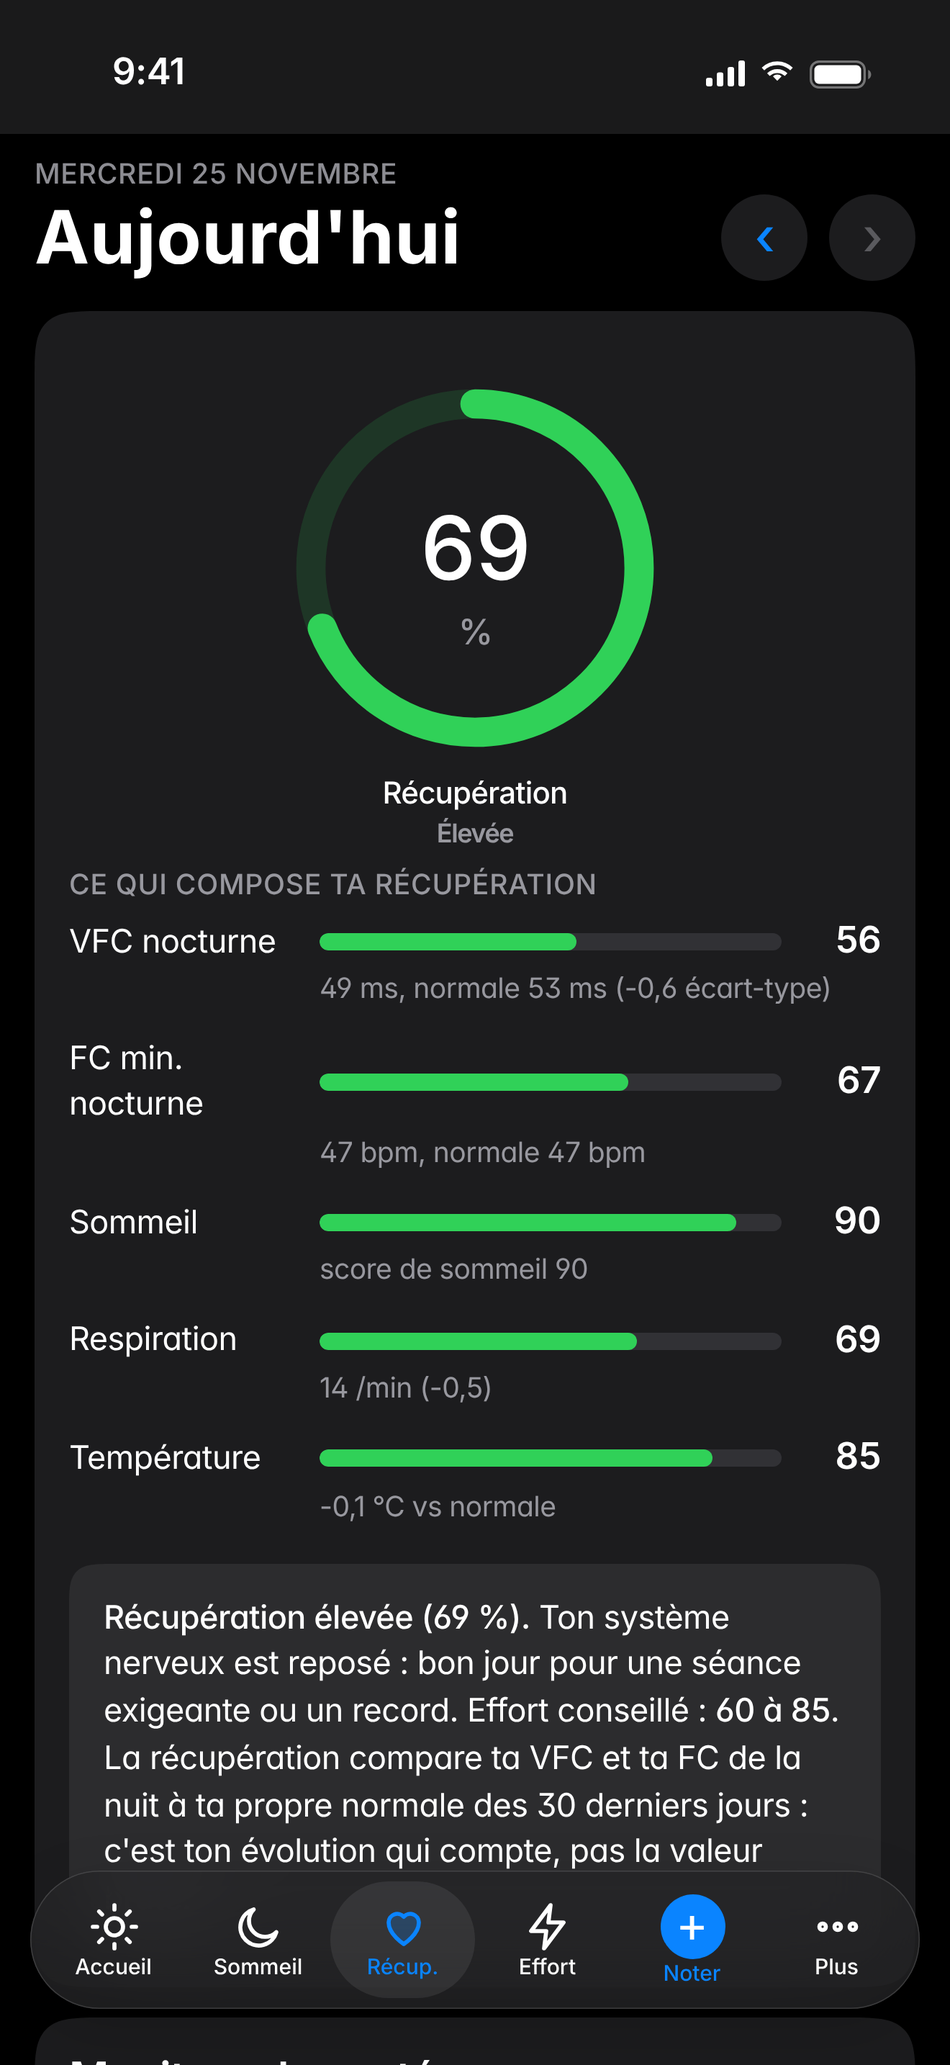
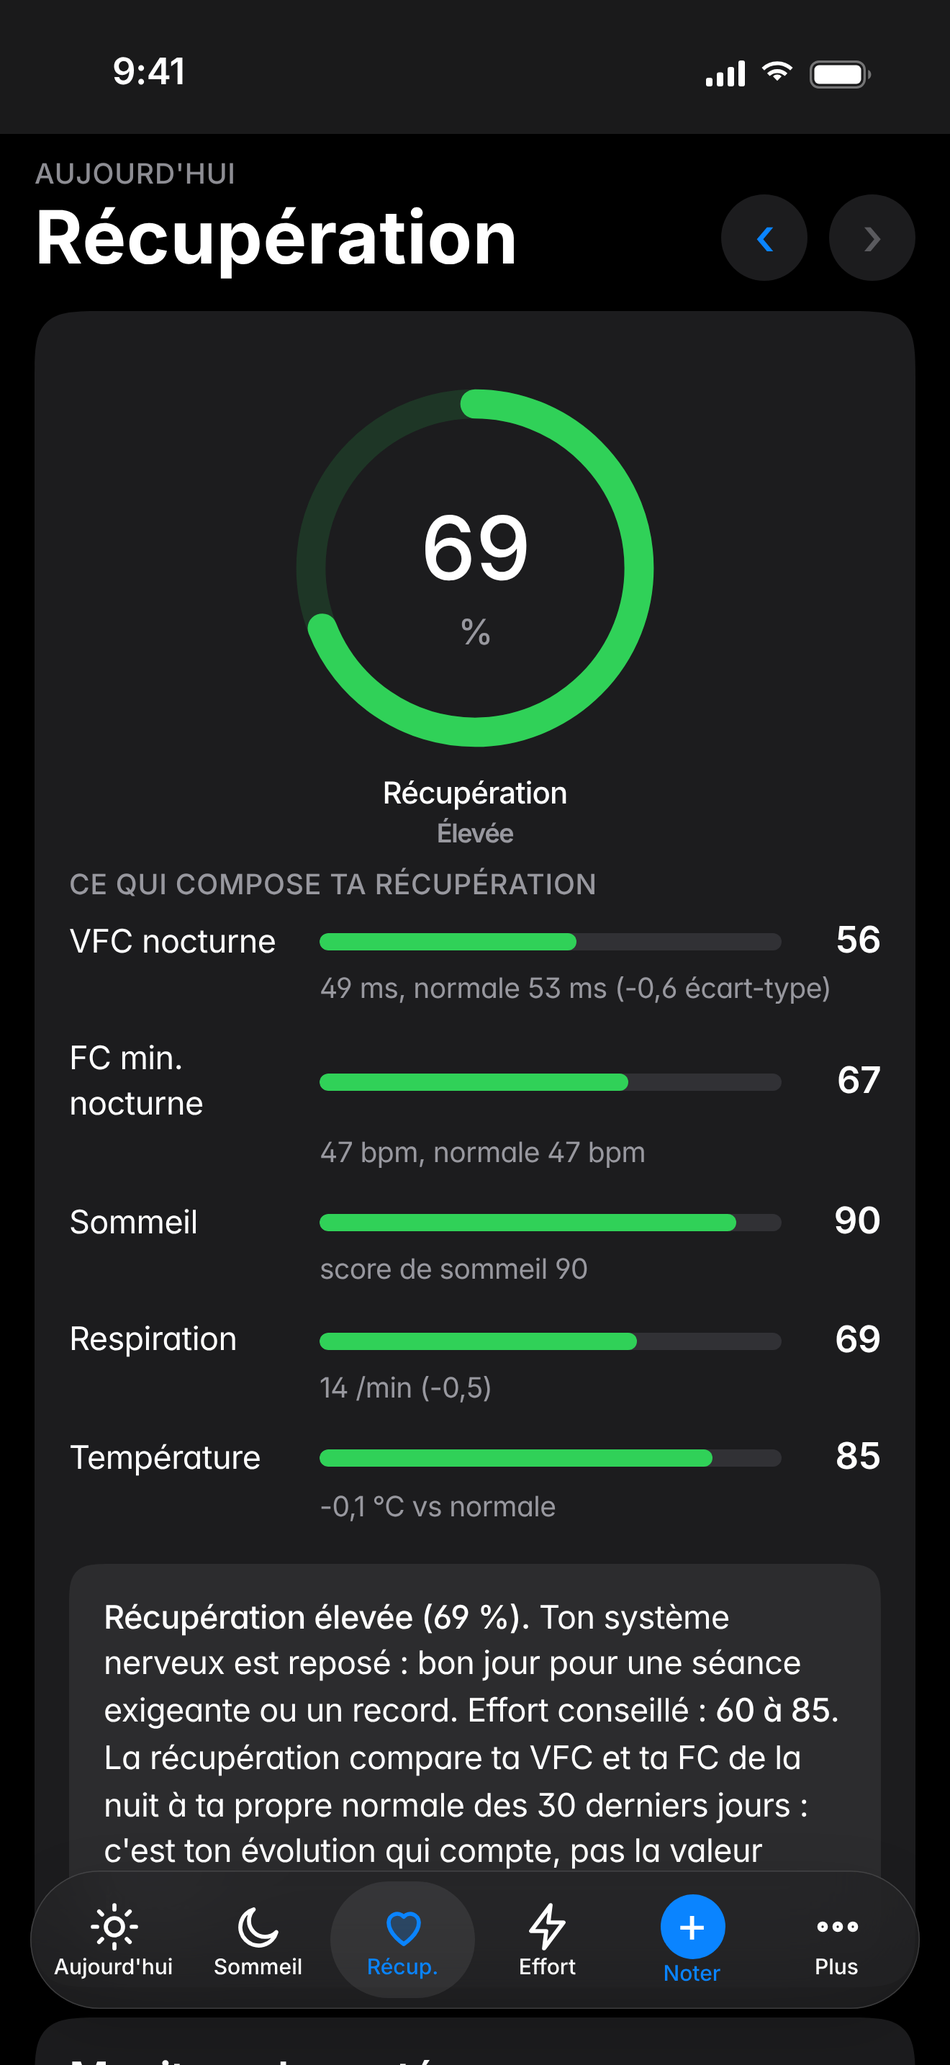
Finitions façon Apple : titres, textes, formulaires et réglages
- grand titre = nom de l'écran (Sommeil, Récupération, Effort), date en sous-titre
- onglet « Aujourd'hui » (au lieu d'« Accueil »), « Apple Santé » dans Noter
- rendez-vous à venir en ligne de liste avec date relative (« dans 12 jours »), au lieu d'un bandeau rose
- chiffres : petit libellé gris au-dessus, comme dans Santé et Forme
- explications coupées à deux lignes avec « plus » (comme l'App Store)
- réglages, dossier et profil en lignes iOS (libellé à gauche, valeur à droite), interrupteurs iOS
- liens sans soulignement, gras du texte en semi-gras
- textes plus justes : stress « calculé au fil de la journée », « Commencer une séance »
- records lisibles sur téléphone ; captures App Store régénérées

Claude-Session: https://claude.ai/code/session_015H5AcnZF4Qe2vCaE56TQbC

Changed region(s): [[0.0311, 0.0621, 0.5591, 0.1552], [0.0621, 0.931, 0.1864, 0.962]]

diff --git a/src/main.js b/src/main.js
@@ -212,11 +212,14 @@ const zbar=z=>{const t=(z||[]).reduce((a,b)=>a+b,0);return t?`<div class="zb">${
 const zleg=z=>`<div class="zl">${(z||[]).map((m,i)=>m?`<span><i style="--c:${ZC[i]}"></i>Z${i+1} ${m} min</span>`:'').join('')}</div>`;
 
 /* ---------- vue commune : jour ---------- */
-function renderDayNav(){const d=S.day;$('#dtitle').textContent=d===today()?"Aujourd'hui":dLong(d);$('#dsub').textContent=d===today()?dLong(d):(d===addD(today(),-1)?'Hier':'');$('[data-act=dnext]').disabled=d>=today();
+const VT={sommeil:'Sommeil',recuperation:'Récupération',effort:'Effort'};
+function renderDayNav(){const d=S.day,v0=cur(),rel=d===today()?"Aujourd'hui":d===addD(today(),-1)?'Hier':'';
+ if(VT[v0]){$('#dtitle').textContent=VT[v0];$('#dsub').textContent=rel||dLong(d)}
+ else{$('#dtitle').textContent=d===today()?"Aujourd'hui":dLong(d);$('#dsub').textContent=d===today()?dLong(d):rel}$('[data-act=dnext]').disabled=d>=today();
  const L=hLast(),up=S.med.filter(m=>(m.date>=today()&&m.date<=addD(today(),14))||(m.next&&m.next>=today()&&m.next<=addD(today(),14)));const v=cur();
  $('#dn').hidden=!['aujourdhui','sommeil','recuperation','effort'].includes(v);
  $('#dnote').innerHTML=!['aujourdhui','sommeil','recuperation','effort'].includes(v)?'':(!L?`<div class="notice">${IMP('Importe ton export Apple Santé','Connecte Apple Santé')} (onglet <a href="#plus" data-act="psub" data-s="apple">Plus</a>) pour activer les scores, le sommeil détaillé et l'analyse cardiaque.</div>`:d>L?`<div class="notice">Données Apple jusqu'au ${dShort(L)}. ${IMP('Réimporte ton export','Synchronise Apple Santé')} pour mettre à jour, ou <button class="btn small" data-act="dlast">voir le ${dShort(L)}</button></div>`:'')
-  +(v==='aujourdhui'&&d===today()&&up.length?`<div class="notice med"><b>Dossier :</b> ${up.map(m=>`${esc(m.title)} le ${dShort(m.date>=today()?m.date:m.next)}`).join(' · ')}</div>`:'')}
+  +(v==='aujourdhui'&&d===today()&&up.length?`<button type="button" class="upnext" data-act="psub" data-s="dossier"><i><svg viewBox="0 0 24 24"><rect x="4" y="5" width="16" height="15" rx="3"/><path d="M8 3v4M16 3v4M4 10h16"/></svg></i><span>${up.map(m=>{const x=m.date>=today()?m.date:m.next,n=Math.round((new Date(x+'T12:00')-new Date(today()+'T12:00'))/864e5);return `<b>${esc(m.title)}</b> ${n===0?"aujourd'hui":n===1?'demain':'dans '+n+' jours'}`}).join('<br>')}</span><em>›</em></button>`:'')}
 
 /* ---------- aujourd'hui ---------- */
 function renderToday(){const d=S.day,h=H(d),D=S.days[d]||{},it=D.items||[],T=dayTrain(d),set=S.set;
@@ -226,7 +229,7 @@ function renderToday(){const d=S.day,h=H(d),D=S.days[d]||{},it=D.items||[],T=day
  const st=num(h.stz),wat=num(D.w)||num(h.wa),vb=nhrvBase(d);
  const tile=(c,k,v,s,extra='')=>`<div class="tile" style="--c:${c}"><span class="k"><i></i>${k}</span><span class="v">${v}</span><span class="s">${s}</span>${extra}</div>`;
  $('#tiles').innerHTML=[
-  tile('var(--str)','Stress estimé',has(h.stz)?`${st}<small> / 100</small>`:'–',has(h.stz)?stressLab(st):''+IMP('après import Apple','après synchro Apple Santé')+''),
+  tile('var(--str)','Stress estimé',has(h.stz)?`${st}<small> / 100</small>`:'–',has(h.stz)?stressLab(st):hKeys().length?(d===today()?'calculé au fil de la journée':'pas de mesure ce jour'):IMP('après import Apple','après synchro Apple Santé')),
   tile('var(--mind)','VFC nocturne',nhrv(d)?`${r0(nhrv(d))}<small> ms</small>`:'–',nhrv(d)&&vb?`normale ${r0(vb.m)} ms`:'pendant ton sommeil'),
   tile('var(--hrt)','FC au repos',h.rhr?`${h.rhr}<small> bpm</small>`:'–',h.nmin?`min. nocturne ${h.nmin} bpm`:''),
   tile('var(--eff)','Activité',h.st?`${r0(h.st)}<small> pas</small>`:'–',[h.ac?r0(h.ac)+' kcal actives':'',h.ex?h.ex+' min d\'exercice':''].filter(Boolean).join(' · ')),
@@ -319,7 +322,7 @@ function renderRec(){const d=S.day,h=H(d),rc=recovery(d);
  const v7=avg(raw.slice(-7).map(p=>p.y));$('#vk2').innerHTML=(hvm()==='rmssd'&&!S.health.rm&&hKeys().length?'<p class="notice" style="width:100%">Ta VFC est encore en SDNN (valeur d\'Apple). '+IMP('Réimporte ton export pour la calculer en RMSSD battement par battement, comme Bevel.','Le RMSSD battement par battement n\'est disponible qu\'avec un fichier d\'export Apple Santé (Plus → Apple Santé).')+'</p>':'')+(v7?`<div><b>${r0(v7)} ms</b><span>${hvLab()}, moyenne des 7 dernières nuits</span></div>`+(vb?`<div><b>${r0(vb.m)} ms</b><span>ta normale (30 j)</span></div><div><b class="${v7>=vb.m?'gd':'dn'}">${sg(Math.round((v7/vb.m-1)*100))} %</b><span>écart à ta normale</span></div>`:''):'');
  const f90=addD(L,-89);setFig('#fnh',{unit:'bpm',series:[{name:'FC min. nocturne',avg:true,pts:dailyPts(d=>num(H(d).nmin)||null,f90,L),col:'var(--trn)',w:1.8,last:true},{name:'FC au repos',avg:true,pts:dailyPts(d=>num(H(d).rhr)||null,f90,L),col:'var(--hrt)',w:1.8,last:true}],empty:'Pas encore de FC nocturne'});
  const nm=winAvg('nmin',L,7),nb=base('nmin',addD(L,-7));$('#nhk').innerHTML=nm?`<div><b>${r0(nm)} bpm</b><span>FC min. nocturne, 7 j${nb?` · <span class="${nm<=nb?'gd':'dn'}">${sg(Math.round(nm-nb))}</span>`:''}</span></div>`:'';
- const x=X(d),sv=num(h.stz);$('#stk').innerHTML=has(h.stz)?`<div><b style="color:var(--str)">${sv}</b><span>stress du ${dShort(d)} : ${stressLab(sv).toLowerCase()}</span></div><div><b>${r0(winAvg('stz',d,7)||0)}</b><span>moyenne 7 j</span></div>`:'<p class="mute small">'+IMP('Le stress estimé apparaît après un import Apple Santé.','Le stress estimé apparaît après la synchro Apple Santé.')+'</p>';
+ const x=X(d),sv=num(h.stz);$('#stk').innerHTML=has(h.stz)?`<div><b style="color:var(--str)">${sv}</b><span>stress du ${dShort(d)} : ${stressLab(sv).toLowerCase()}</span></div><div><b>${r0(winAvg('stz',d,7)||0)}</b><span>moyenne 7 j</span></div>`:'<p class="mute small">'+(hKeys().length?'Pas encore de stress estimé pour ce jour : il se calcule au fil de la journée, à partir de ta fréquence cardiaque.':IMP('Le stress estimé apparaît après un import Apple Santé.','Le stress estimé apparaît après la synchro Apple Santé.'))+'</p>';
  $('#sth').innerHTML=x&&x.sh?`<div style="display:grid;grid-template-columns:repeat(24,minmax(0,1fr));gap:2px;align-items:end;height:80px">${x.sh.map((v,i)=>`<i data-tip="${esc(`${i}h – ${i+1}h : stress ${v} / 100`)}" style="display:block;height:${Math.max(4,v)}%;border-radius:3px;background:${v>=50?'var(--str)':v>0?'color-mix(in srgb,var(--str) 45%,var(--field))':'var(--field)'}"></i>`).join('')}</div><div style="display:flex;justify-content:space-between" class="mute small"><span>0h</span><span>6h</span><span>12h</span><span>18h</span><span>24h</span></div>`:'';
  const vk=(key,lab,f,dev)=>{const v=vals(key,L,7,0);if(!v.length)return'';const a=avg(v),b=base(key,addD(L,-7),30);return `<div><b>${dev&&b!=null?sg(Math.round((a-b)*100)/100)+' °C':f(a)}</b><span>${lab}${dev?' vs normale':''}, 7 j</span></div>`};
  $('#vtk').innerHTML=[vk('o2','SpO2',v=>fx(v)+' %'),vk('rr','respirations / min',fx),vk('tp','température poignet',fx,true),vk('hr','FC moyenne',v=>r0(v)+' bpm'),vk('whr','FC en marchant',v=>r0(v)+' bpm'),vk('hrr','récupération à 1 min',v=>r0(v)+' bpm')].join('')||'<p class="mute small">'+IMP('Réimporte ton export Apple Santé','Synchronise Apple Santé')+' pour ajouter ces mesures.</p>';
@@ -348,8 +351,8 @@ function renderStart(){const seen=new Set(),tpl=[];
  const seg=`<div class="seg"><button data-act="smode" data-m="mu" class="${startMode==='mu'?'on':''}">Muscu</button><button data-act="smode" data-m="sp" class="${startMode==='sp'?'on':''}">Autre sport</button></div>`;
  $('#editor').innerHTML=`<div class="panel"><h2>Noter une séance</h2>${seg}`+(startMode==='mu'?`
  <div class="grid2"><label>Nom de la séance<input id="nn" placeholder="Push, Pull, Jambes…" autocomplete="off"></label><label>Date<input id="nd" type="date" value="${today()}"></label></div>
- <button class="btn pri" data-act="start">Démarrer une séance vide</button>
- ${tpl.length?`<h3>Ou refaire une séance type</h3><div class="chips">${tpl.map(s=>`<button class="chip" data-act="tpl" data-id="${esc(s.id)}"><b>${esc(s.name)}</b><span>${dShort(s.date)} · ${(s.ex||[]).length} exos</span></button>`).join('')}</div><p class="mute small">Charges pré-remplies avec la progression suggérée.</p>`:''}`
+ <button class="btn pri" data-act="start">Commencer une séance</button>
+ ${tpl.length?`<h3>Ou reprendre une séance récente</h3><div class="chips">${tpl.map(s=>`<button class="chip" data-act="tpl" data-id="${esc(s.id)}"><b>${esc(s.name)}</b><span>${dShort(s.date)} · ${(s.ex||[]).length} exos</span></button>`).join('')}</div><p class="mute small">Charges pré-remplies avec la progression suggérée.</p>`:''}`
  :`<form id="spf"><div class="grid3"><label>Sport<select id="spt">${SPORTS.map(x=>`<option>${x}</option>`).join('')}</select></label><label>Date<input id="spd" type="date" value="${today()}"></label><label>Durée (min)<input id="spm" inputmode="numeric" required></label>
  <label>Intensité ressentie (1 à 10)<select id="spr"><option value="">Non notée</option>${[1,2,3,4,5,6,7,8,9,10].map(i=>`<option value="${i}">${i}${i<=3?' · facile':i<=6?' · modéré':i<=8?' · dur':' · maximal'}</option>`).join('')}</select></label><label>Distance (km, option)<input id="spk" inputmode="decimal"></label><label>Note<input id="spn" placeholder="ex. fractionné 8×400 m"></label></div>
  <button class="btn pri">Enregistrer</button></form>`)+`</div>`;
@@ -573,7 +576,8 @@ function updateDatalist(){const m=new Map();for(const x of exNames())m.set(norm(
 function resumeOnce(){if(resumed)return;resumed=true;const o=S.sessions.filter(s=>s.open).sort(sortDesc)[0];if(o&&!S.cur){S.cur=clone(o);renderEditor()}}
 const views=['aujourdhui','sommeil','recuperation','effort','nutrition','tendances','plus'];
 const cur=()=>{const h=location.hash.slice(1);return views.includes(h)?h:'aujourdhui'};
-function renderView(v){renderDayNav();$('#demobar').hidden=!S.set.demo;try{({aujourdhui:renderToday,sommeil:renderSleep,recuperation:renderRec,effort:renderEffort,nutrition:renderNutri,tendances:renderTrends,plus:renderPlus})[v]()}catch(e){console.error(e)}}
+function markMore(){if(!matchMedia('(max-width:800px)').matches)return;requestAnimationFrame(()=>$$('.view:not([hidden]) .panel>p.mute.small:not(.open)').forEach(p=>p.classList.toggle('more',p.scrollHeight>p.clientHeight+2)))}
+function renderView(v){setTimeout(markMore,0);renderDayNav();$('#demobar').hidden=!S.set.demo;try{({aujourdhui:renderToday,sommeil:renderSleep,recuperation:renderRec,effort:renderEffort,nutrition:renderNutri,tendances:renderTrends,plus:renderPlus})[v]()}catch(e){console.error(e)}}
 function renderSoft(){updateDatalist();
  if(!S.cur&&!$('#editor').contains(document.activeElement))renderStart();
  if(S.cur)S.cur.ex.forEach((e,i)=>updateHint(i));

diff --git a/index.html b/index.html
@@ -19,7 +19,7 @@
 <header class="top">
  <div class="wrap tt"><div class="brand"><svg viewBox="0 0 32 32" aria-hidden="true"><rect width="32" height="32" rx="10" fill="var(--ink)"/><circle cx="16" cy="16" r="9" fill="none" stroke="var(--eff)" stroke-width="3" stroke-dasharray="19 38" stroke-linecap="round" transform="rotate(-90 16 16)"/><circle cx="16" cy="16" r="9" fill="none" stroke="var(--rec)" stroke-width="3" stroke-dasharray="17 40" stroke-dashoffset="-19" stroke-linecap="round" transform="rotate(-90 16 16)"/><circle cx="16" cy="16" r="9" fill="none" stroke="var(--slp)" stroke-width="3" stroke-dasharray="17 40" stroke-dashoffset="-38" stroke-linecap="round" transform="rotate(-90 16 16)"/></svg><h1>Carnet de santé</h1></div><span id="st" class="pill local">Sauvegarde locale</span></div>
  <nav class="wrap tabs" id="tabs">
-  <a href="#aujourdhui"><svg viewBox="0 0 24 24"><circle cx="12" cy="12" r="4"/><path d="M12 2v2M12 20v2M4.9 4.9l1.4 1.4M17.7 17.7l1.4 1.4M2 12h2M20 12h2M4.9 19.1l1.4-1.4M17.7 6.3l1.4-1.4"/></svg><span class="lb"><span class="lf">Aujourd'hui</span><span class="ls">Accueil</span></span></a>
+  <a href="#aujourdhui"><svg viewBox="0 0 24 24"><circle cx="12" cy="12" r="4"/><path d="M12 2v2M12 20v2M4.9 4.9l1.4 1.4M17.7 17.7l1.4 1.4M2 12h2M20 12h2M4.9 19.1l1.4-1.4M17.7 6.3l1.4-1.4"/></svg><span class="lb"><span class="lf">Aujourd'hui</span><span class="ls">Aujourd'hui</span></span></a>
   <a href="#sommeil"><svg viewBox="0 0 24 24"><path d="M20 14.5A8.5 8.5 0 1 1 9.5 4a7 7 0 0 0 10.5 10.5z"/></svg><span class="lb">Sommeil</span></a>
   <a href="#recuperation"><svg viewBox="0 0 24 24"><path d="M12 20s-7-4.4-7-10a4 4 0 0 1 7-2.6A4 4 0 0 1 19 10c0 5.6-7 10-7 10z"/></svg><span class="lb">Récup.</span></a>
   <button type="button" class="tplus" data-act="sheet" aria-label="Noter quelque chose"><span class="pi" aria-hidden="true">+</span><span class="lb">Noter</span></button>
@@ -29,7 +29,7 @@
   <a href="#plus"><svg viewBox="0 0 24 24"><circle cx="5" cy="12" r="1.5"/><circle cx="12" cy="12" r="1.5"/><circle cx="19" cy="12" r="1.5"/></svg><span class="lb">Plus</span></a>
  </nav>
 <div id="sheet" hidden><div class="sh" role="dialog" aria-label="Noter"><h3>Noter</h3><button type="button" class="x shx" data-act="qa" data-q="close" aria-label="Fermer">×</button>
-<button class="qa" data-act="qa" data-q="mu" style="--c:var(--trn)"><i><svg viewBox="0 0 24 24"><path d="M3 10v4M6 8v8M18 8v8M21 10v4M6 12h12"/></svg></i>Séance de muscu</button><button class="qa" data-act="qa" data-q="sp" style="--c:var(--eff)"><i><svg viewBox="0 0 24 24"><path d="M13 2 4 14h7l-1 8 9-12h-7z"/></svg></i>Autre sport</button><button class="qa" data-act="qa" data-q="food" style="--c:var(--nut)"><i><svg viewBox="0 0 24 24"><path d="M4 11h16a8 8 0 0 1-16 0zM9 7c0-2 1.5-3 3-3s3 1 3 3"/></svg></i>Repas</button><button class="qa" data-act="qa" data-q="water" style="--c:var(--wat)"><i><svg viewBox="0 0 24 24"><path d="M12 3s6 6.5 6 11a6 6 0 0 1-12 0c0-4.5 6-11 6-11z"/></svg></i>Eau +25 cl</button><button class="qa" data-act="qa" data-q="bw" style="--c:var(--bod)"><i><svg viewBox="0 0 24 24"><rect x="4" y="4" width="16" height="16" rx="4"/><path d="M9 9h6"/></svg></i>Poids du matin</button><button class="qa" data-act="qa" data-q="ci" style="--c:var(--mind)"><i><svg viewBox="0 0 24 24"><circle cx="12" cy="12" r="9"/><path d="M8.5 14s1.3 2 3.5 2 3.5-2 3.5-2M9 10h.01M15 10h.01"/></svg></i>Check-in</button><button class="qa" data-act="qa" data-q="med" style="--c:var(--hrt)"><i><svg viewBox="0 0 24 24"><rect x="4" y="5" width="16" height="15" rx="3"/><path d="M8 3v4M16 3v4M4 10h16"/></svg></i>Rendez-vous</button><button class="qa" data-act="qa" data-q="apple" style="--c:var(--rec)"><i><svg viewBox="0 0 24 24"><path d="M12 3v12M7 10l5 5 5-5M5 21h14"/></svg></i>Import Apple</button>
+<button class="qa" data-act="qa" data-q="mu" style="--c:var(--trn)"><i><svg viewBox="0 0 24 24"><path d="M3 10v4M6 8v8M18 8v8M21 10v4M6 12h12"/></svg></i>Séance de muscu</button><button class="qa" data-act="qa" data-q="sp" style="--c:var(--eff)"><i><svg viewBox="0 0 24 24"><path d="M13 2 4 14h7l-1 8 9-12h-7z"/></svg></i>Autre sport</button><button class="qa" data-act="qa" data-q="food" style="--c:var(--nut)"><i><svg viewBox="0 0 24 24"><path d="M4 11h16a8 8 0 0 1-16 0zM9 7c0-2 1.5-3 3-3s3 1 3 3"/></svg></i>Repas</button><button class="qa" data-act="qa" data-q="water" style="--c:var(--wat)"><i><svg viewBox="0 0 24 24"><path d="M12 3s6 6.5 6 11a6 6 0 0 1-12 0c0-4.5 6-11 6-11z"/></svg></i>Eau +25 cl</button><button class="qa" data-act="qa" data-q="bw" style="--c:var(--bod)"><i><svg viewBox="0 0 24 24"><rect x="4" y="4" width="16" height="16" rx="4"/><path d="M9 9h6"/></svg></i>Poids du matin</button><button class="qa" data-act="qa" data-q="ci" style="--c:var(--mind)"><i><svg viewBox="0 0 24 24"><circle cx="12" cy="12" r="9"/><path d="M8.5 14s1.3 2 3.5 2 3.5-2 3.5-2M9 10h.01M15 10h.01"/></svg></i>Check-in</button><button class="qa" data-act="qa" data-q="med" style="--c:var(--hrt)"><i><svg viewBox="0 0 24 24"><rect x="4" y="5" width="16" height="15" rx="3"/><path d="M8 3v4M16 3v4M4 10h16"/></svg></i>Rendez-vous</button><button class="qa" data-act="qa" data-q="apple" style="--c:var(--rec)"><i><svg viewBox="0 0 24 24"><path d="M12 3v12M7 10l5 5 5-5M5 21h14"/></svg></i>Apple Santé</button>
 </div></div>
 <div class="wrap pop"><div id="timer" hidden><b id="tval">0:00</b><span class="small" id="tlab">Repos</span><button type="button" data-act="t30">+30 s</button><button type="button" data-act="tstop">Stop</button></div><div id="toast" role="status" aria-live="polite"></div></div>
 <div class="kbd dskonly"><b>←</b><b>→</b> changer de jour<br><b>1</b>–<b>7</b> onglets · <b>N</b> noter<br><b>Échap</b> fermer</div>

diff --git a/src/styles.css b/src/styles.css
@@ -61,6 +61,7 @@ a{color:var(--tint)}
 .pop{position:relative;height:0;overflow:visible}
 button,a,.gauge,.hr,.qa,.chip,.tabs a{-webkit-tap-highlight-color:transparent;touch-action:manipulation}
 .tabs,.gauge,.hr,.qa,.seg,.daynav{-webkit-user-select:none;user-select:none}
+b,strong{font-weight:600}
 .mute{color:var(--mute)}.small{font-size:14px;line-height:1.4}
 .gd{color:var(--ok)}.dn{color:var(--bad)}
 .num{text-align:right;white-space:nowrap;font-variant-numeric:tabular-nums}
@@ -461,3 +462,39 @@ td.num,th.num{text-align:right}
 .privacy{margin:0 0 14px;padding-left:20px;display:flex;flex-direction:column;gap:6px;font-size:15px}
 .adv{margin-top:14px;border-top:.5px solid var(--line);padding-top:10px}
 .adv summary{cursor:pointer;font-weight:500;color:var(--tint);font-size:15px}
+
+/* ---------- finitions façon Apple ---------- */
+a{text-decoration:none}
+/* rendez-vous à venir : ligne de liste avec icône */
+.upnext{display:grid;grid-template-columns:30px minmax(0,1fr) 14px;gap:12px;align-items:center;width:100%;text-align:left;background:var(--panel);border:0;border-radius:var(--r-in);padding:11px 16px;margin:0 0 14px;color:var(--ink);font:400 15px/1.35 var(--font);cursor:pointer}
+.upnext i{width:30px;height:30px;border-radius:8px;background:var(--hrt);display:grid;place-items:center}
+.upnext svg{width:18px;height:18px;stroke:#fff;fill:none;stroke-width:2.2;stroke-linecap:round;stroke-linejoin:round}
+.upnext b{font-weight:500}.upnext span{color:var(--mute)}.upnext span b{color:var(--ink)}
+.upnext em{font-style:normal;color:var(--mute2);font-size:22px;line-height:1}
+@supports (corner-shape:squircle){.upnext,.upnext i{corner-shape:squircle}}
+/* chiffres : petit libellé gris au-dessus, comme dans Santé et Forme */
+.stat,.kpis div{display:flex;flex-direction:column-reverse;justify-content:flex-end;gap:3px}
+.stat span,.kpis span{font-size:12px;font-weight:500;text-transform:uppercase;letter-spacing:.02em;line-height:1.3}
+/* interrupteurs iOS */
+.chk{flex-direction:row-reverse;justify-content:space-between;min-height:44px}
+.chk input[type=checkbox]{-webkit-appearance:none;appearance:none;width:51px;height:31px;min-height:31px;padding:0;border-radius:99px;background:var(--field);position:relative;flex:none;cursor:pointer;transition:background .2s}
+.chk input[type=checkbox]::before{content:'';position:absolute;top:2px;left:2px;width:27px;height:27px;border-radius:50%;background:#fff;box-shadow:0 3px 8px rgba(0,0,0,.15),0 3px 1px rgba(0,0,0,.06);transition:transform .2s}
+.chk input[type=checkbox]:checked{background:var(--rec)}.chk input[type=checkbox]:checked::before{transform:translateX(20px)}
+/* formulaires en lignes de réglages : libellé à gauche, valeur à droite */
+:is([data-sub=reglages] .grid3,#medf .grid3,.ob-form){display:block;margin:0 0 6px}
+:is([data-sub=reglages] .grid3,#medf .grid3,.ob-form)>label{display:flex;align-items:center;justify-content:space-between;gap:12px;min-height:50px;padding:3px 0;border-top:.5px solid var(--line);font-size:17px;color:var(--ink);letter-spacing:-.02em}
+:is([data-sub=reglages] .grid3,#medf .grid3,.ob-form)>label:first-child{border-top:0}
+:is([data-sub=reglages] .grid3,#medf .grid3,.ob-form)>label>:is(input,select){flex:0 1 52%;width:auto;min-height:36px;padding:6px 0;background-color:transparent;border-radius:0;text-align:right;text-align-last:right;color:var(--mute)}
+:is([data-sub=reglages] .grid3,#medf .grid3,.ob-form)>label>select{padding-right:20px;background-position:right 0 center}
+:is([data-sub=reglages] .grid3,#medf .grid3,.ob-form)>label>:is(input,select):focus{color:var(--ink)}
+:is([data-sub=reglages] .grid3,#medf .grid3,.ob-form)>label>input::placeholder{color:var(--mute2)}
+[data-sub=reglages] .grid3>label:has(#s-hvm){display:grid;gap:8px;padding:12px 0}
+[data-sub=reglages] .grid3>label:has(#s-hvm)>select{flex:none;width:100%;text-align:left;text-align-last:left;background-color:var(--field);border-radius:var(--r-ctl);padding:10px 36px 10px 14px;background-position:right 12px center;color:var(--ink)}
+.ob-form{padding:4px 18px}
+@media(max-width:800px){
+ /* explications : coupées à deux lignes, « plus » pour lire la suite */
+ .panel>p.mute.small{position:relative}
+ .panel>p.mute.small.more:not(.open)::after{content:'plus';position:absolute;right:0;bottom:0;padding-left:34px;color:var(--tint);background:linear-gradient(90deg,transparent,var(--panel) 30px)}
+ /* records : colonne « série la plus lourde » masquée sur téléphone, faute de place */
+ #recs th:nth-child(2),#recs td:nth-child(2){display:none}
+}
